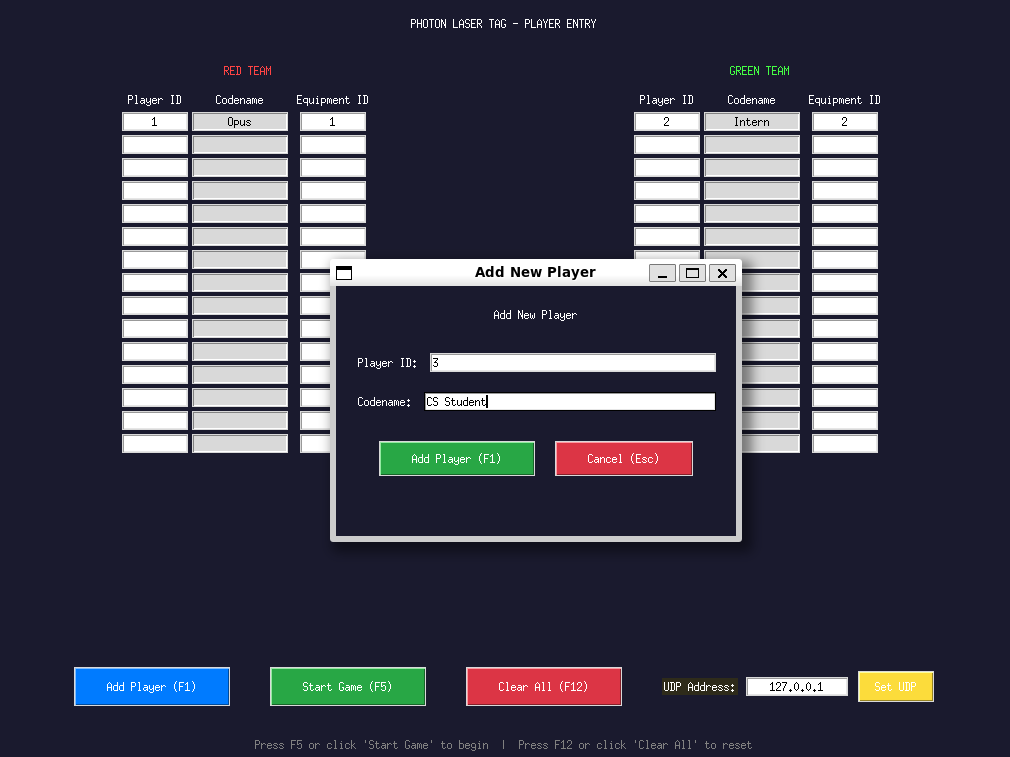
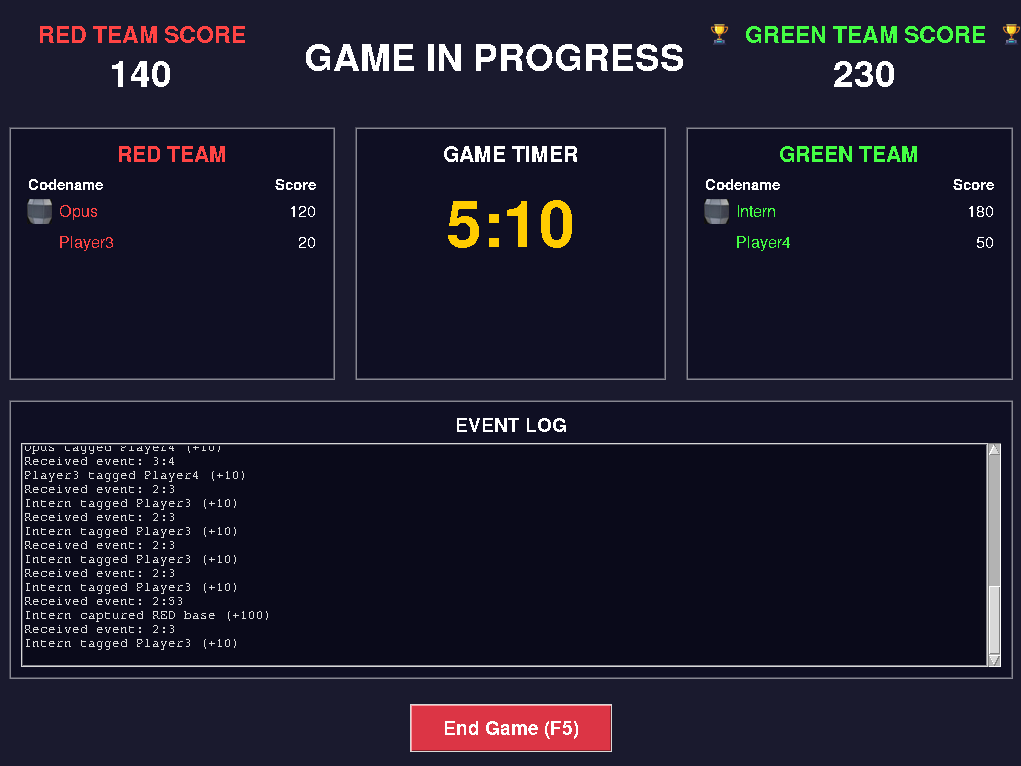
Update portfolio and resume

diff --git a/src/sections/Projects.jsx b/src/sections/Projects.jsx
@@ -3,19 +3,27 @@ import { AnimatedBorderButton } from "@/components/AnimatedBorderButton";
 
 const projects = [
   {
+    title: "Laser Tag System",
+    description: "A UDP-based multiplayer laser tag application built in Python for real-time communication and game logic. Integrated a PostgreSQL database with team assignment based on equipment IDs, deployed and tested on a Linux VM using Agile/sprint workflows.",
+    image: "/projects/laser-tag.png",
+    tags: ["Python", "PostgreSQL", "UDP", "Linux", "Team Project"],
+    github: "https://github.com/anastassty/Laser-Tag",
+  },
+
+  {
+    title: "Concert Ticket System",
+    description: "A full-stack concert ticket management web application with relational database schemas, JOIN queries, and aggregation functions for ticketing and revenue analysis. Built dynamic backend routes and database-driven forms supporting CRUD-style functionality.",
+    image: "/projects/concert-ticket.png",
+    tags: ["Flask", "PostgreSQL", "HTML/CSS", "SQL"],
+    github: "https://github.com/anastassty/concert-ticket-system",
+  },
+
+  {
     title: "Personal Portfolio Website",
     description: "A personal portfolio built with React and Tailwind CSS to showcase my projects, experience, and technical interests.",
     image: "/projects/portfolio.png",
     tags: ["React", "Tailwind", "JavaScript"],
-    github: "#",
-  },
-
-  {
-    title: "Laser Tag System",
-    description: "A team-based software project implementing gameplay logic, player interaction, and system functionality.",
-    image: "/projects/laser-tag.png",
-    tags: ["Python", "Git", "Team Project"],
-    github: "https://github.com/anastassty/Laser-Tag",
+    github: "https://github.com/anastassty/personal-portfolio",
   },
 
   {

diff --git a/src/sections/About.jsx b/src/sections/About.jsx
@@ -4,7 +4,7 @@ const highlights = [
     {
         icon: Code2,
         title: "Software Projects",
-        description: "Built projects in Python, JavaScript, Java, and React, including games, problem-solving tools, and interactive applications.",
+        description: "Built full-stack web applications and systems using Python, Flask, PostgreSQL, JavaScript, and React.",
     },
 
     {
@@ -16,7 +16,7 @@ const highlights = [
     {
         icon: Users,
         title: "Team Experience",
-        description: "Worked on team-based projects in class and student programs, contributing to design, development, and problem solving.",
+        description: "Worked on team-based projects using Agile sprint workflows, contributing to development, testing, and integration.",
     },
 
     {
@@ -44,15 +44,19 @@ export const About = () => {
                         </h2>
                         <div className="space-y-4 text-muted-foreground)] animate-fade-in animation-delay-200">
                             <p>
-                                I’m a Computer Science student at the University of Arkansas who enjoys building software and learning how technology works behind the scenes.
+                                I’m a Computer Science student at the University of Arkansas who enjoys building practical projects and learning through hands-on experience. What interests me most about technology is seeing how technical systems connect to real-world problems, business decisions, and user experiences.
                             </p>
 
                             <p>
-                                I come from an international background and speak Russian, Turkish, and English, and I also have some Spanish. Being able to communicate across different cultures has helped me work with many different people and perspectives.
+                                Alongside school, I work as a Computer Support Assistant at my university, helping maintain classroom technology and troubleshoot hardware and software issues for faculty and students. Working in both technical and collaborative environments has helped me become more adaptable and comfortable communicating with different kinds of people.
                             </p>
 
                             <p>
-                                I’m especially interested in artificial intelligence and assistive technologies, and I enjoy exploring how software can make technology more useful and accessible.
+                                I also enjoy connecting with people from different backgrounds and perspectives. Being multilingual and having international experience has made me more curious, open-minded, and interested in how technology impacts people in different ways.
+                            </p>
+
+                            <p>
+                                I’m always looking for opportunities to keep learning, work on projects that actually matter, and connect with people doing interesting things.
                             </p>
                         </div>
                         <div className="glass rounded-2xl p-6 glow-border animate-fade-in animation-delay-300">

diff --git a/src/sections/Experience.jsx b/src/sections/Experience.jsx
@@ -1,5 +1,14 @@
 const experiences = [
   {
+    period: "Summer 2026",
+    role: "Customer Strategy Intern — Walmart & Club Account",
+    company: "Reckitt",
+    description:
+      "Supporting the customer strategy team on the Walmart & Club account, focusing on supply chain analytics, retail operations, and process improvement initiatives. Assisting with data analysis, reporting, and dashboard-driven business insights using Excel and Power BI, and collaborating cross-functionally to support analytical and operational decision-making.",
+    technologies: ["Supply Chain", "Data Analysis", "Excel", "Power BI", "Retail Analytics"],
+    current: false,
+  },
+  {
     period: "Nov 2023 — Present",
     role: "Computer Support Assistant",
     company: "University of Arkansas",

diff --git a/src/sections/Hero.jsx b/src/sections/Hero.jsx
@@ -4,10 +4,12 @@ import { ChevronDown, Download, Github, Linkedin } from "lucide-react";
 const skills = [
     "Python",
     "Java",
-    "C++",
     "JavaScript",
     "React",
+    "Flask",
     "SQL",
+    "PostgreSQL",
+    "Tailwind CSS",
     "Github / Git",
     "Linux",
     "Figma",
@@ -42,8 +44,7 @@ export const Hero = () => {
                         </h1>
                         <p className="text-lg text-muted-foreground max-w-lg animate-fade-in animation-delay-200">
                             I'm a computer science student at the University of Arkansas.
-                            Here you can check out my projects, experience, and a few things
-                            I enjoy outside of school too.
+                            Here you can check out my projects, experience, and skills.
                         </p>
                     </div>
 